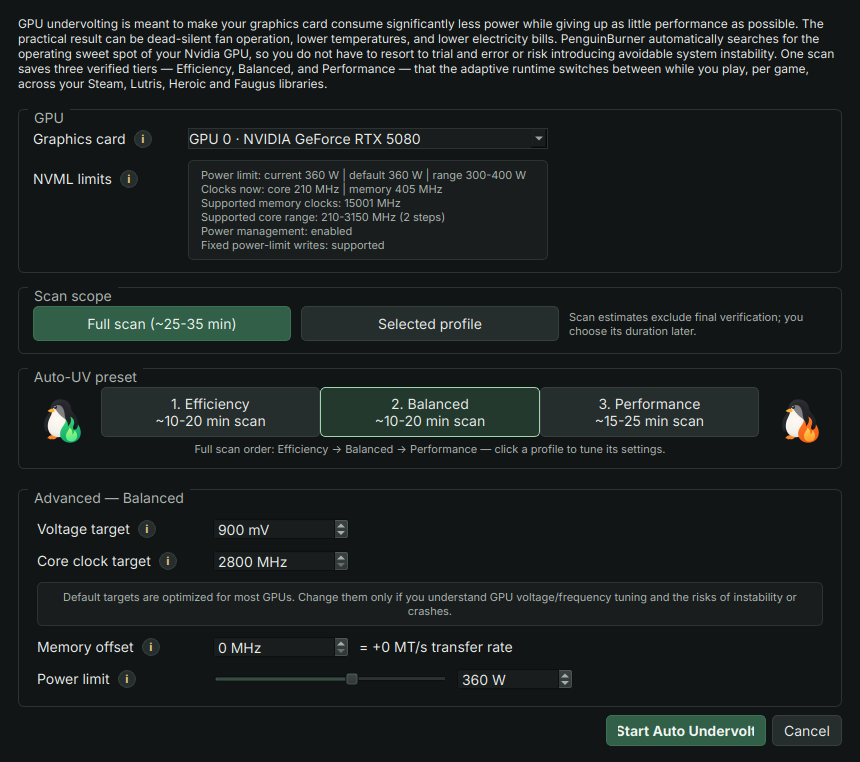
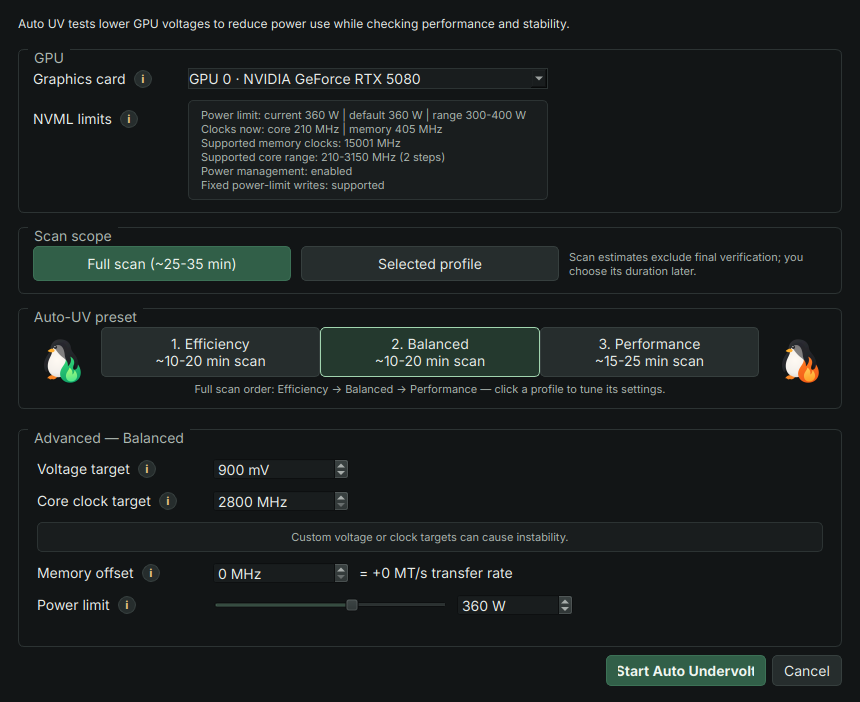
Shorten Auto UV setup and About to one sentence each

diff --git a/examples/ui-preview/about.js b/examples/ui-preview/about.js
@@ -35,7 +35,7 @@ function aboutView() {
     ${
       data
         ? '<div class="aboutReadings"><div>Total runtime<strong id="aboutRuntime"></strong></div><div>Energy saved<strong id="aboutEnergy"></strong></div></div><small>Sample lifetime totals</small>'
-        : '<p class="aboutPurpose">PenguinBurner finds a voltage and clock that use less power while preserving game performance. A scan saves Efficiency, Balanced and Performance profiles. Adaptive can switch between them while you play games from Steam, Heroic, Lutris or Faugus.</p>'
+        : '<p class="aboutPurpose">' + esc(design.copy.aboutPurpose) + '</p>'
     }
     <div class="aboutLinks"><a href="https://github.com/sponsors/jpietek" target="_blank" rel="noopener noreferrer">Support PenguinBurner on GitHub ↗</a>
     <a href="https://github.com/jpietek/PenguinBurner/issues" target="_blank" rel="noopener noreferrer">Report an issue ↗</a></div>

diff --git a/examples/ui-preview/auto-uv-dialogs.js b/examples/ui-preview/auto-uv-dialogs.js
@@ -89,7 +89,7 @@ function setupDialog(focusId) {
             `0–2000 MHz · <output id="uvMemoryRate">${draft.settings[tier].memory * 2} MT/s</output>` +
             (full && tier !== 'Efficiency' ? ' · Shared by Balanced and Performance.' : ''))
         + uvNumber('watts', 'Power limit', 'W', `300–400 W · preset ${preset.watts} W.`);
-    uvDialog('Setup Auto Undervolt', 'Configure the scan for the selected graphics card.',
+    uvDialog('Setup Auto Undervolt', design.copy.setupNote,
         `<section class="uvGroup"><h3>Graphics card</h3><div class="uvGPU">
         <b>GPU 0 · ${setupGPU.name}</b>
         <span>Board power 300–400 W · stock 360 W</span></div>

diff --git a/examples/ui-preview/preview.py b/examples/ui-preview/preview.py
@@ -16,7 +16,7 @@ sys.path.insert(0, str(Path(__file__).resolve().parents[2]))
 import numpy as np
 import pyqtgraph as pg
 from build_preview import build_preview
-from design import COL, GAP, TYPE, DemoCurvePlot, install_theme
+from design import COL, COPY, GAP, TYPE, DemoCurvePlot, install_theme
 from PySide6 import QtCore as C
 from PySide6 import QtGui as G
 from PySide6 import QtWidgets as W
@@ -100,7 +100,20 @@ def setup_options(parent):
         "auto_uv_voltage_floor_range_mv": (725, 1240),
         "memory_offset_mhz_range": (0, 4000),
     }
+
+    def set_target_note():
+        dialog = W.QApplication.activeModalWidget()
+        if dialog:
+            for note in dialog.findChildren(W.QLabel, "autoUvTargetCaution"):
+                note.setText(COPY["targetCaution"])
+
+    C.QTimer.singleShot(0, set_target_note)
     with ExitStack() as stack:
+        stack.enter_context(
+            patch.object(
+                scan_tuning, "GPU_UNDERVOLTING_PURPOSE_TEXT", COPY["setupNote"]
+            )
+        )
         for name, reply in fixtures.items():
             stack.enter_context(patch.object(scan_tuning, name, return_value=reply))
         return scan_tuning.select_scan_tuning(
@@ -1077,6 +1090,7 @@ class Preview(W.QWidget):
                 side_effect=self.sample_energy_status,
             ),
             patch.object(about, "ABOUT_LINKS_HTML", links),
+            patch.object(about, "GPU_UNDERVOLTING_PURPOSE_TEXT", COPY["aboutPurpose"]),
         ):
             about.show_about_dialog(QtCore=C, QtGui=G, QtWidgets=W, parent=self)
 

diff --git a/examples/ui-preview/capture_qt.py b/examples/ui-preview/capture_qt.py
@@ -10,10 +10,10 @@ os.environ.setdefault(
     "QTWEBENGINE_CHROMIUM_FLAGS", "--disable-gpu --disable-dev-shm-usage"
 )
 
-from preview import Preview, configure_app
+from preview import COPY, Preview, configure_app
 from PySide6.QtCore import Qt, QTimer
 from PySide6.QtTest import QTest
-from PySide6.QtWidgets import QApplication, QDialog, QPushButton, QTableWidget
+from PySide6.QtWidgets import QApplication, QDialog, QLabel, QPushButton, QTableWidget
 
 
 def capture():
@@ -30,6 +30,12 @@ def capture():
     def start_full_scan():
         dialog = app.activeModalWidget()
         assert isinstance(dialog, QDialog)
+        purpose = dialog.findChild(QLabel, "purposeText")
+        assert purpose and purpose.text() == COPY["setupNote"]
+        cautions = dialog.findChildren(QLabel, "autoUvTargetCaution")
+        assert cautions and all(
+            label.text() == COPY["targetCaution"] for label in cautions
+        )
         assert dialog.grab().save(str(output / "auto-uv-setup-qt.png"))
         next(
             b

diff --git a/examples/ui-preview/capture_browser.py b/examples/ui-preview/capture_browser.py
@@ -49,9 +49,15 @@ def capture(page: Page, directory: Path) -> None:
     open_screen("#auto-uv")
     assert page.get_by_text("No runs yet", exact=True).is_visible()
     click("About")
-    assert page.locator(".aboutPurpose").is_visible()
+    assert page.locator(".aboutPurpose").inner_text() == page.evaluate(
+        "design.copy.aboutPurpose"
+    )
+    shot("about-first-launch", "#panel")
     click("OK")
     click("Setup Auto Undervolt")
+    assert page.locator(".uvHeader p").inner_text() == page.evaluate(
+        "design.copy.setupNote"
+    )
     page.locator("#uv-watts").fill("347")
     assert page.locator("#uvPowerRange").input_value() == "347"
     shot("auto-uv-setup", "#panel")

diff --git a/examples/ui-preview/tests/test_native_preview.py b/examples/ui-preview/tests/test_native_preview.py
@@ -199,10 +199,7 @@ def test_about_shows_purpose_or_live_fixture_energy(app, monkeypatch):
             snapshots.append("counter")
         else:
             purpose = dialog.findChild(preview.W.QLabel, "purposeText")
-            assert (
-                purpose
-                and purpose.text() == preview.about.GPU_UNDERVOLTING_PURPOSE_TEXT
-            )
+            assert purpose and purpose.text() == preview.COPY["aboutPurpose"]
             snapshots.append("purpose")
         dialog.close()
         return preview.W.QDialog.DialogCode.Accepted

diff --git a/examples/ui-preview/design.py b/examples/ui-preview/design.py
@@ -13,6 +13,7 @@ from ui.styles import STYLESHEET
 
 SPEC = json.loads(Path(__file__).with_name("pburn-design.json").read_text())
 COL = SPEC["colors"]
+COPY = SPEC["copy"]
 TYPE = SPEC["typography"]
 GAP = SPEC["spacing"]
 RAD = SPEC["radii"]
